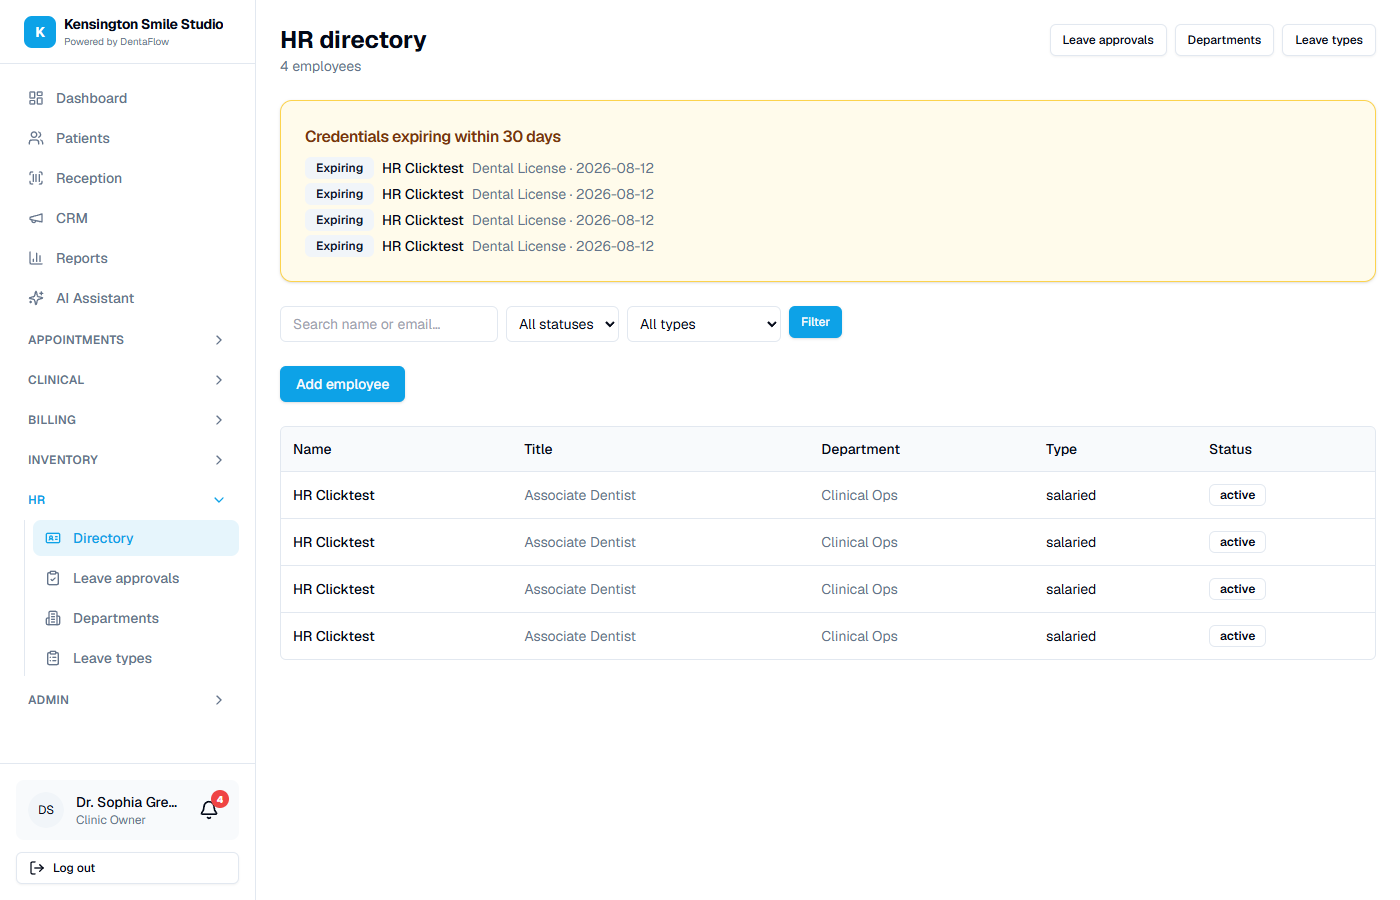
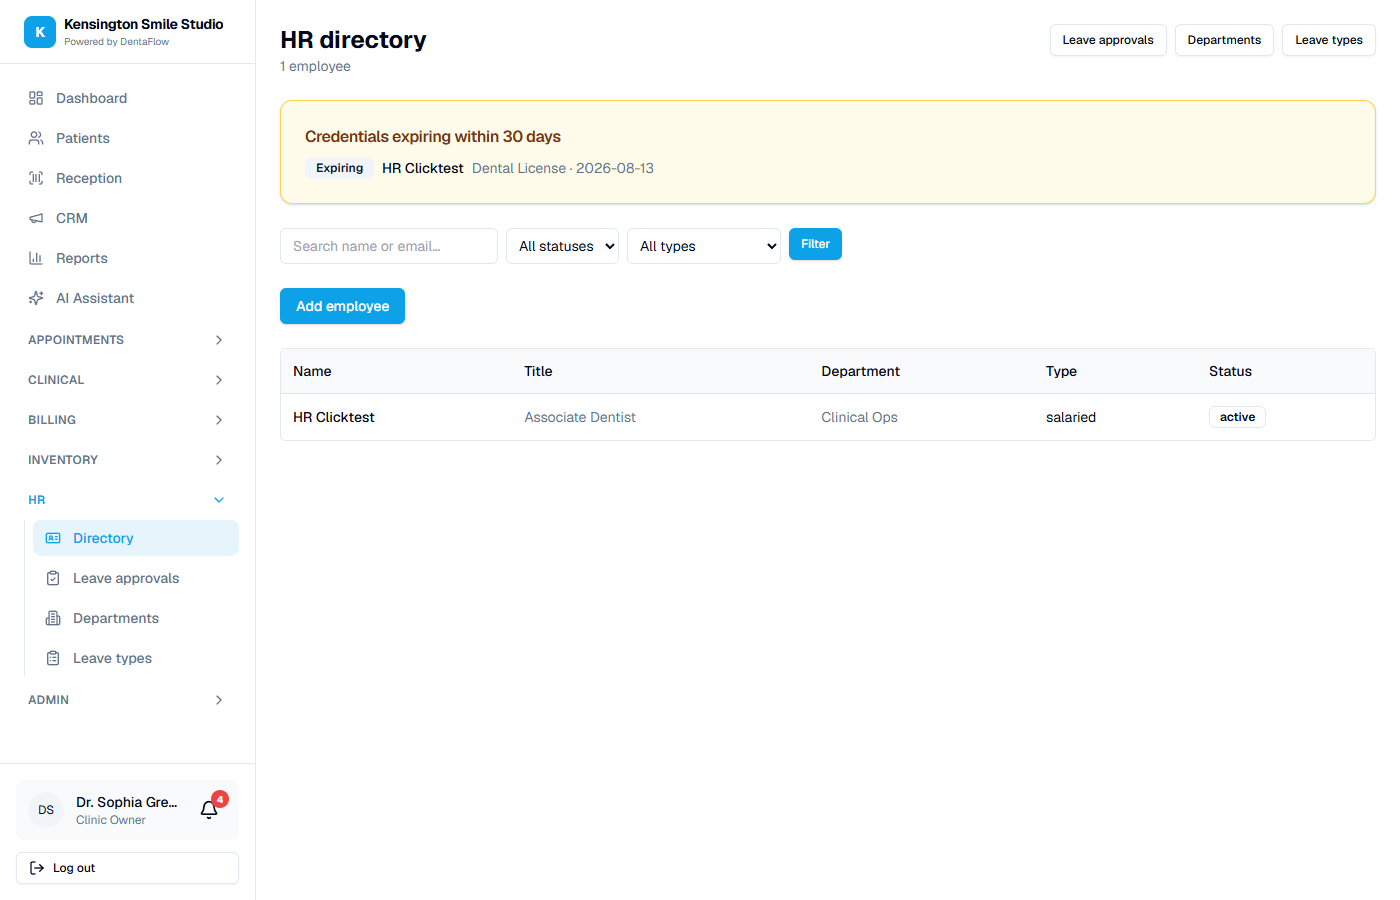
Document HR Phase 1 duplicate-leave Step 0 resolution and re-verify leave approve.
Seed re-runs had created visually identical leave cards across different employees; approve is id-scoped. Clean seed + UI approve confirmed with no SQL fallback.

diff --git a/docs/verification/hr-phase1/STEP0-DUPLICATE-LEAVE.md b/docs/verification/hr-phase1/STEP0-DUPLICATE-LEAVE.md
@@ -1,0 +1,30 @@
+# Step 0 — Duplicate leave-row note (resolved)
+
+## What was duplicated
+
+Not two rows for the **same** `employeeId`. Each click-test re-run inserted a **new** `Employee` (`HR Clicktest`) plus a new `LeaveRequest` with identical dates/reason, without deleting prior runs. Disposable DB after those runs:
+
+| id | employeeId | dates | reason | status |
+|----|------------|-------|--------|--------|
+| `82abc2f1-…` | `f7906431-…` | 2026-09-10→11 | clicktest leave | approved |
+| `8335f44c-…` | `4676e3fc-…` | 2026-09-10→11 | clicktest leave | approved |
+| `7e812649-…` | `e77b5e0c-…` | 2026-09-10→11 | clicktest leave | approved |
+| `b68c0385-…` (tracked) | `86278cbc-…` | 2026-09-10→11 | clicktest leave | approved |
+
+`GROUP BY employeeId, leaveTypeId, startDate, endDate, reason HAVING COUNT(*) > 1` → **0 rows**.
+
+Four employees named `HR Clicktest` matched four seed runs. Screenshot `03-leave-queue.png` showed “2 pending requests” with identical labels — two of those leftover cards.
+
+## Root cause
+
+**Seed-script artifact only.** `tmp-hr-phase1-clicktest.mjs` unlinked the doctor’s `staffMemberId` then inserted another employee/leave every run. Playwright clicked `.first()` card matching text `clicktest leave`, which was an **older** leave’s Approve button (`decideLeaveRequest({ id: thatCard.id })`). The assertion checked the **newest** `leaveId`, still `pending`, then applied a SQL fallback — producing the misleading note.
+
+## Approve action — real gap?
+
+**No.** `decideLeaveRequest` loads by exact `id` + `tenantId` (`tenantWhere(ctx.tenantId, { id: input.id })`). The leave-queue UI passes `r.id` from the row. It cannot match/approve “the wrong row” by date range.
+
+**Related product gap (non-blocking fast-follow):** there is no uniqueness/overlap guard preventing an employee from submitting two identical pending leave ranges. That did **not** cause this note (duplicates were across different employees from re-seeding). Track as a Phase 1.1 polish item; **do not hold the PR**.
+
+## Fix
+
+Seed now deletes prior clicktest leave/time/docs/employees (`lastName='Clicktest'`, reason `clicktest%`) before insert. Click-test asserts exactly one pending `clicktest leave` card and requires UI approve of the tracked `leaveId` with **no SQL fallback**.

diff --git a/docs/verification/hr-phase1/README.md b/docs/verification/hr-phase1/README.md
@@ -30,9 +30,13 @@ Prod spot-check before modeling: **12 / 157** active `StaffMember` rows had `aut
 - Report: `clicktest-report.json` (`CLICKTEST OK`)
   - Credential expiry badge on directory + detail
   - Time entry approved via UI
-  - Leave queue visible; leave approved (tenant-scoped)
+  - Leave queue: exactly **1** pending card; UI Approve via `decideLeaveRequest({ id })` — **no SQL fallback**
   - Doctor self-service `/hr/me` OK; doctor redirected away from `/hr` directory
   - Cross-tenant employee id not visible to primary tenant (`crossTenantVisibleToPrimary=0`)
+
+### Duplicate-row note (resolved)
+
+See [`STEP0-DUPLICATE-LEAVE.md`](./STEP0-DUPLICATE-LEAVE.md). Pure seed re-run noise (multiple `HR Clicktest` employees), not an approve-action wrong-row bug. Seed cleaned; leave approve re-verified clean.
 
 ## Screenshots
 
